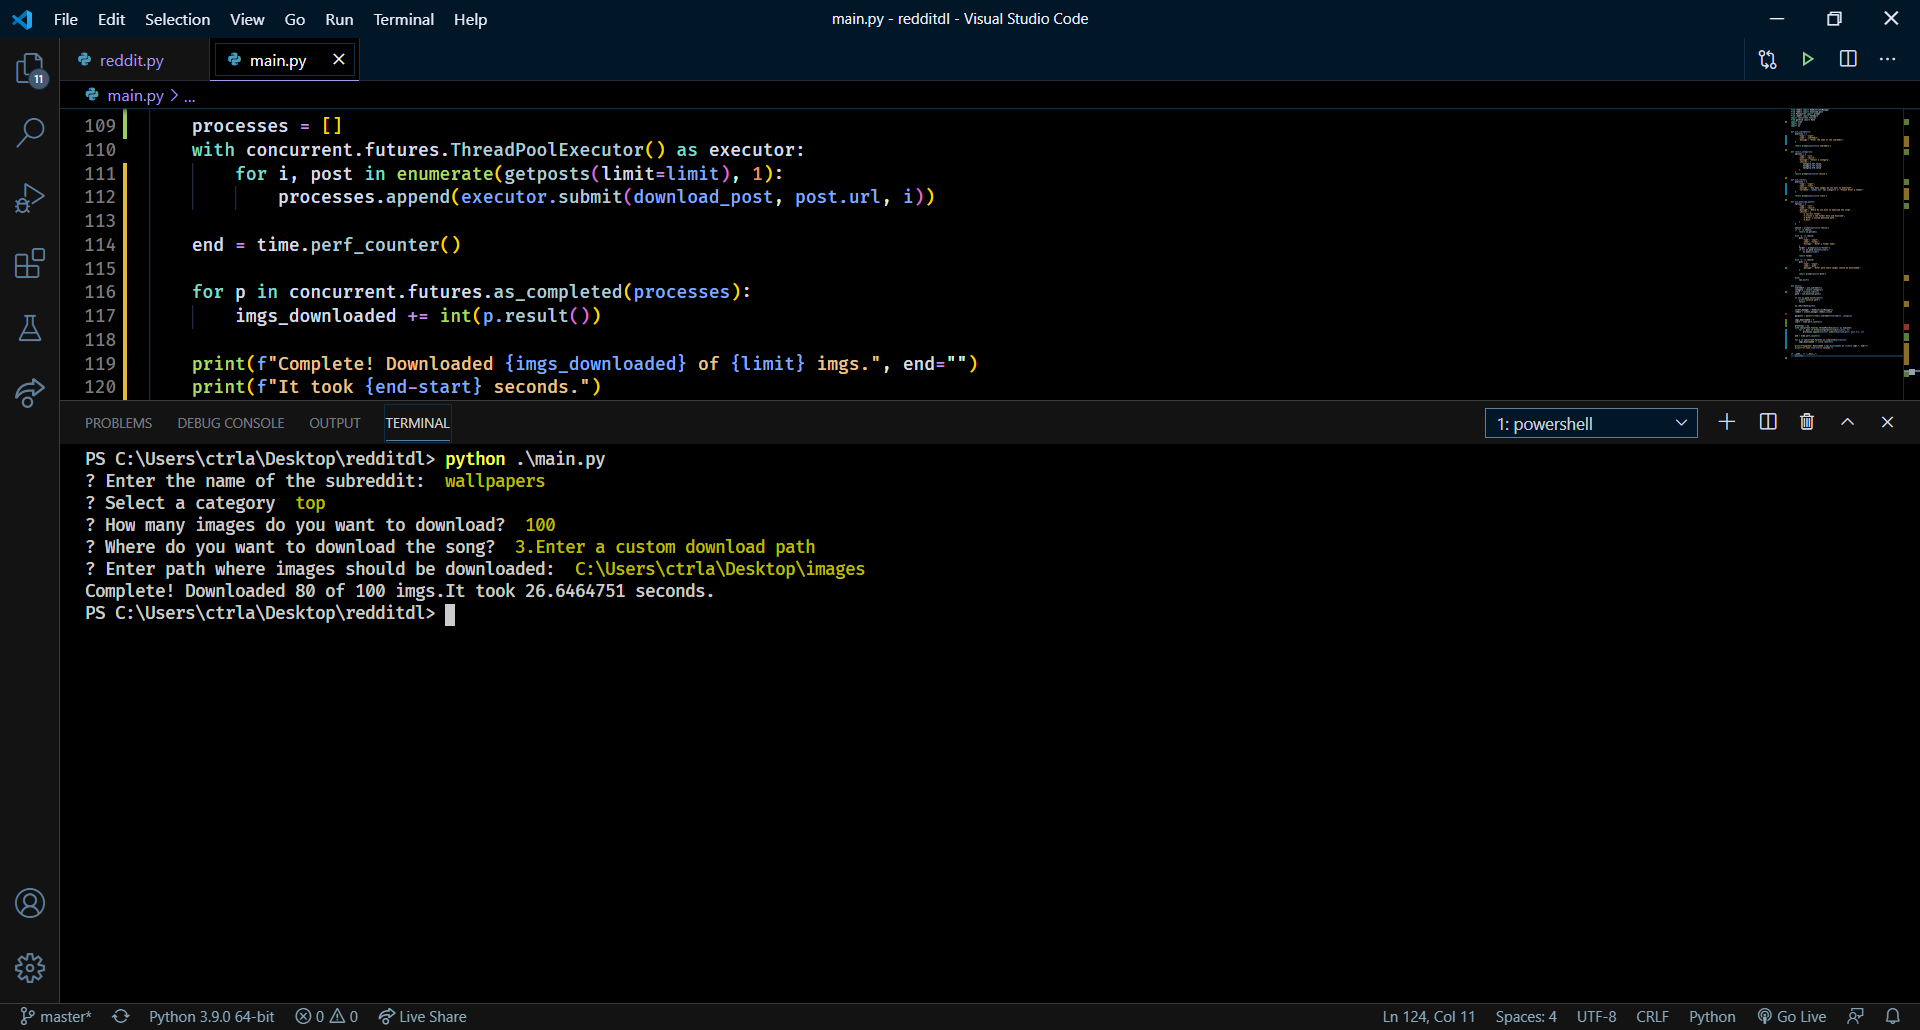
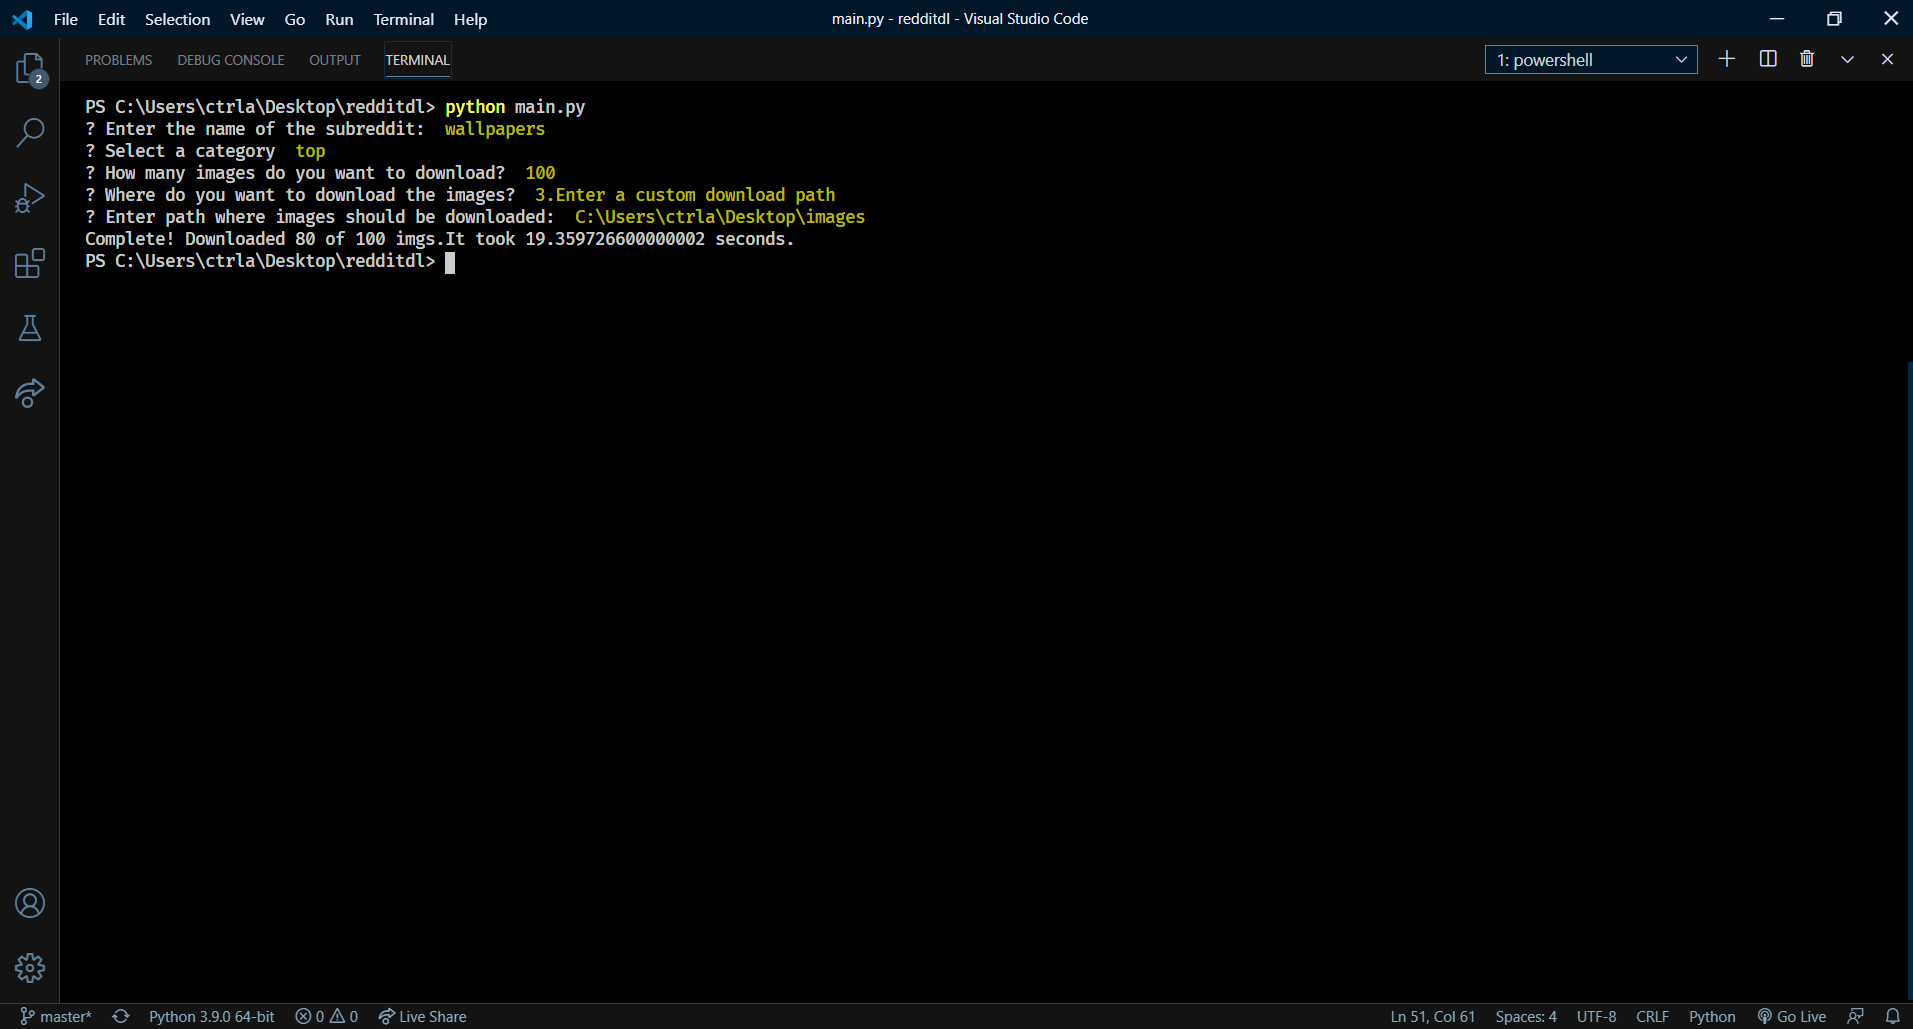
add media

diff --git a/main.py b/main.py
@@ -48,7 +48,7 @@ def ask_download_path():
     options = {
         'type': 'list',
         'name': 'choice',
-        'message': 'Where do you want to download the song?',
+        'message': 'Where do you want to download the images?',
         'choices': [
             '1.Current folder',
             '2.Create a new folder here and download',
